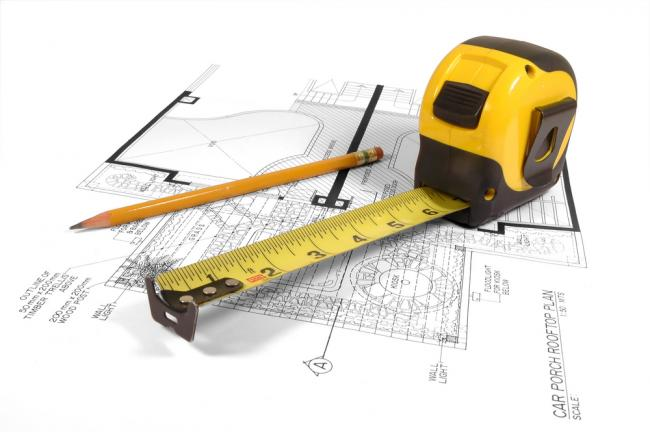
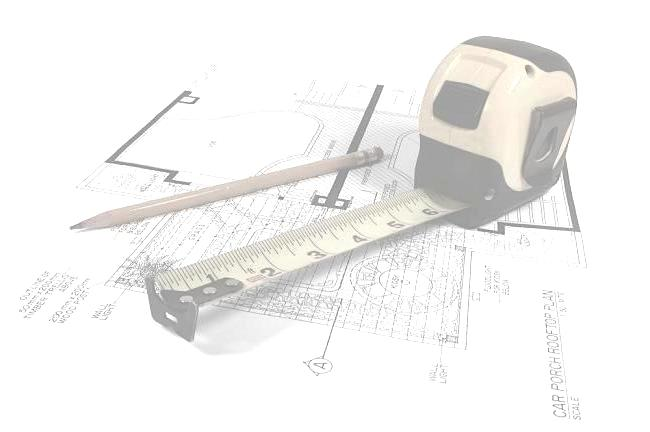
Updates

diff --git a/aandzconstructionservices/style.css b/aandzconstructionservices/style.css
@@ -1,12 +1,15 @@
 body {
-    background-image: url("background.jpg");
+    background-image: url("background2.jpg");
     background-size: 1000px;
-    background-position: top;
+    background-position: center;
+    background-attachment: fixed;
     background-repeat: no-repeat;
+    background-size: cover;
+    
 }
 
 header{
-    max-width: 900px; 
+    max-width: 540px; 
     position: relative;
     position: center;
     margin-left: auto;
@@ -17,28 +20,32 @@ nav{
 	font-weight: bold;
 	position: relative;
 	left: 35px;
-	top: 20px;
+	top: -50px;
     display: inline; 
 }
 
+img {
+    margin-left: 15px; 
+
+}
+
 nav ul li {
-	background-color: rgb(00,00, 240);
-	color: orange;
+	background-color: white;
 	display: inline;
 	text-decoration: none;
 	text-transform: uppercase;
 	padding: 10px;
-	border: 2px ridge blue;
+	border: 2px solid black;
 	border-radius: 3px;
 }
 
 nav ul li a{
-    color: orange;
+    color: black;
 }
 
 
 nav ul li:hover { 
-    background-color: orange; 
+    background-color: yellow; 
     text-decoration: none; 
 }
 
@@ -49,4 +56,19 @@ nav ul li:hover a {
 
 a {
     text-decoration: none; 
+}
+
+#welcome {
+    position: absolute;
+    max-width: 540px;
+    background-color: white;
+    border: 2px ridge black;
+    border-radius: 5px; 
+    left: 700px; 
+    color: black;
+}   
+
+@media screen and (min-width: 851px)
+{
+    //This is the normal screen
 }

diff --git a/aandzconstructionservices/home.html b/aandzconstructionservices/home.html
@@ -8,6 +8,7 @@
     
     <body>
         <header> 
+            <img id="logo" src="logo.jpg" alt="Construction Workers"/> 
             <nav>
                 <ul>
                     <li> <a href="home.html"> Home </a> </li>    
@@ -17,5 +18,9 @@
                 </ul>
             </nav>
         </header>
+        
+        <section id="welcome"> 
+            <h1> Welcome to A &amp; Z Construction Services! </h1>
+        </section>
     </body>
 </html>
